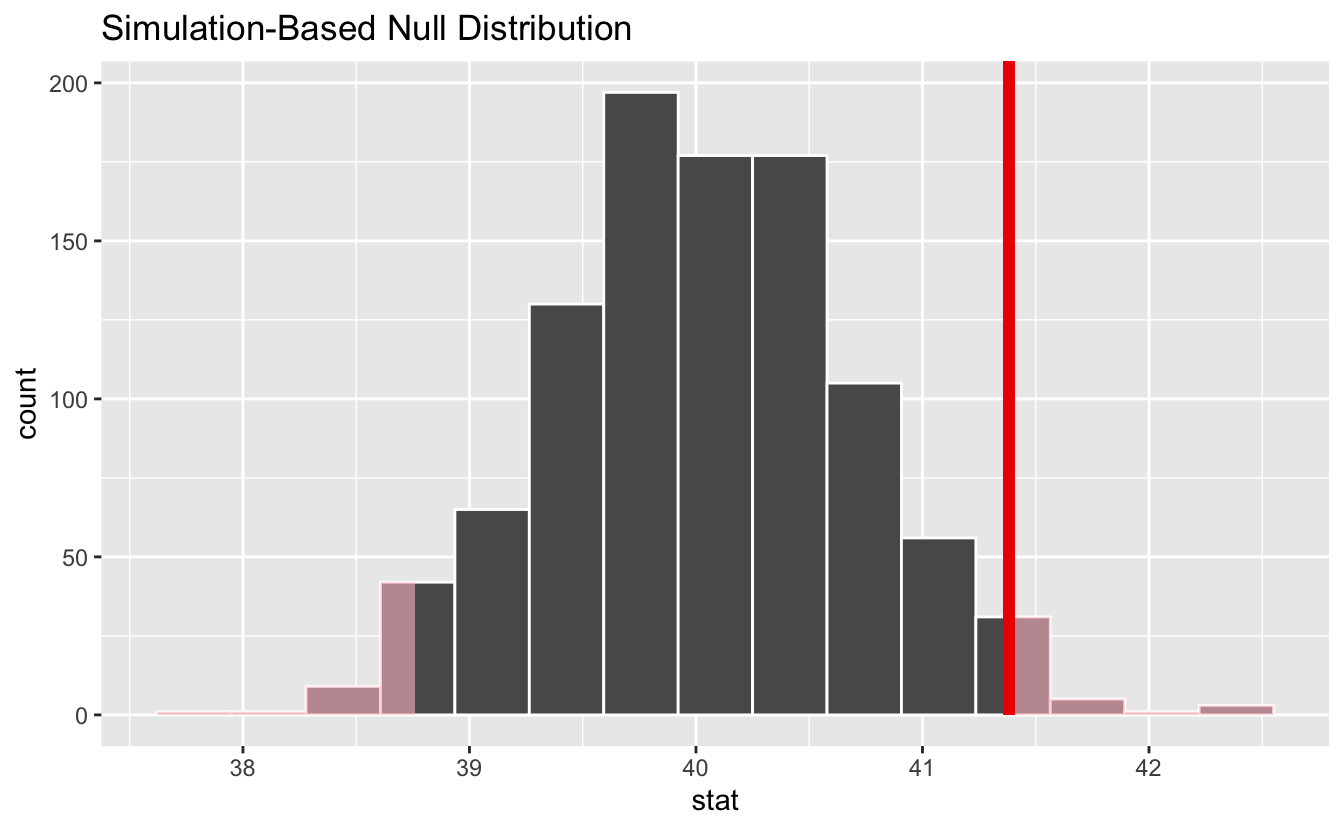
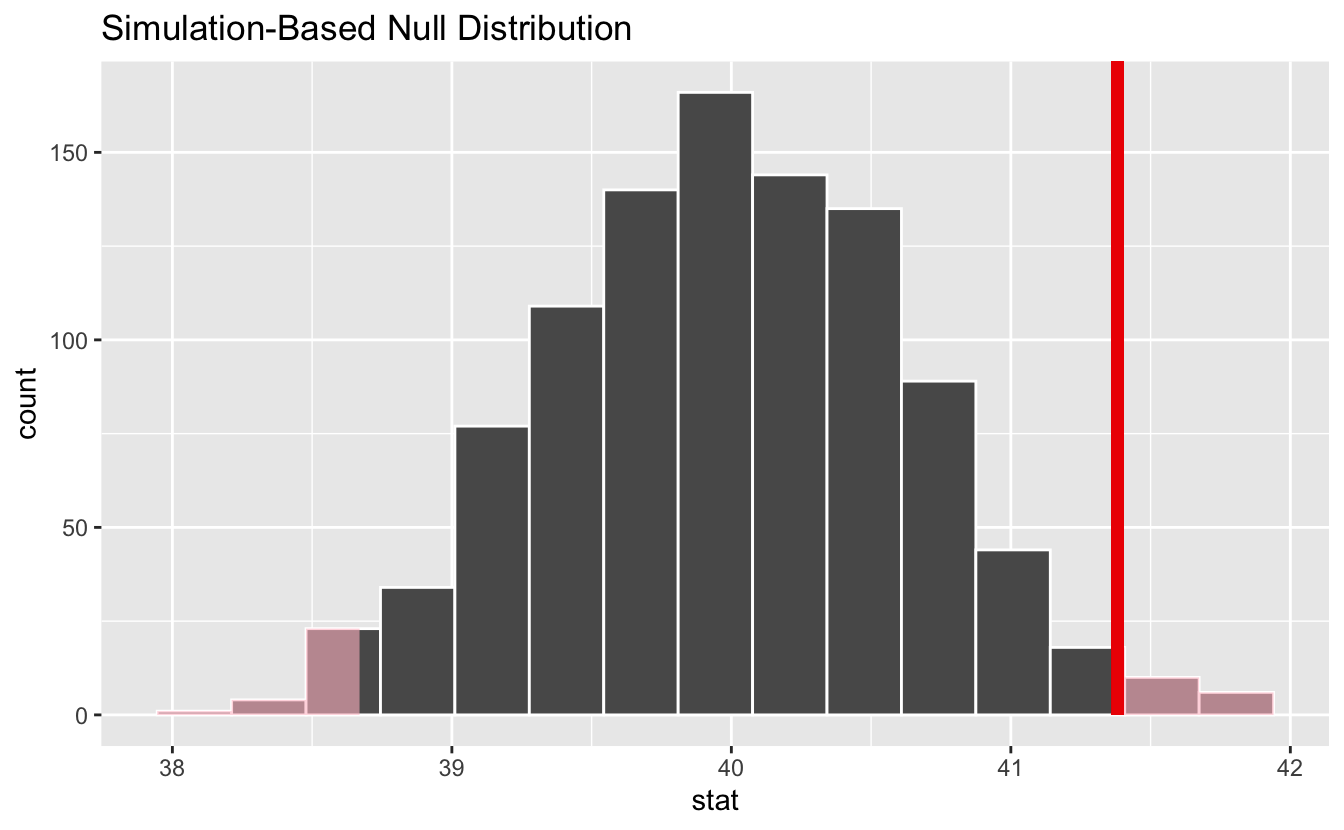
use consistent syntax, spellcheck, add context

diff --git a/content/blog/infer-1-0-0/index.md b/content/blog/infer-1-0-0/index.md
@@ -15,7 +15,7 @@ photo:
 
 categories: [package] 
 tags: [tidymodels]
-rmd_hash: 72296f4c0895a280
+rmd_hash: dbb82b02b1cc1daa
 
 ---
 
@@ -32,7 +32,7 @@ TODO:
 * [x] [`usethis::use_tidy_thanks()`](https://usethis.r-lib.org/reference/use_tidy_thanks.html)
 -->
 
-We're super excited announce the release of [infer](https://infer.tidymodels.org/) 1.0.0. infer is a package for statistical inference that implements an expressive statistical grammar that coheres with the tidyverse design framework. Rather than providing methods for specific statistical tests, this package consolidates the principles that are shared among common hypothesis tests into a set of four main verbs (functions), supplemented with many utilities to visualize and extract value from their outputs.
+We're super excited announce the release of [infer](https://infer.tidymodels.org/) 1.0.0! infer is a package for statistical inference that implements an expressive statistical grammar that coheres with the tidyverse design framework. Rather than providing methods for specific statistical tests, this package consolidates the principles that are shared among common hypothesis tests into a set of four main verbs (functions), supplemented with many utilities to visualize and extract value from their outputs.
 
 You can install it from CRAN with:
 
@@ -65,13 +65,13 @@ The workflow of this package is designed around this idea. Starting out with som
 
 As such, the ultimate output of an infer pipeline using these four functions is generally an *observed statistic* or *null distribution* of test statistics. These four functions are thus supplemented with many utilities to visualize and extract value from their outputs.
 
--   [`visualize()`](https://infer.tidymodels.org/reference/visualize.html) plots the *null distribution* of test statistics
+-   [`visualize()`](https://infer.tidymodels.org/reference/visualize.html) plots the null distribution of test statistics
     -   [`shade_p_value()`](https://infer.tidymodels.org/reference/shade_p_value.html) situates the observed statistic in the null distribution, shading the region as or more extreme
     -   [`shade_confidence_interval()`](https://infer.tidymodels.org/reference/shade_confidence_interval.html) situates the confidence interval region in the null distribution, shading the region with the bounds
 -   `get_p_value` calculates a p-value via the juxtaposition of the test statistic and null distribution
 -   `get_confidence_interval` calculates a confidence interval via the juxtaposition of the test statistic and null distribution
 
-Throughout this post, we make use of `gss`, a dataset supplied by `infer` containing a sample of 500 observations of 11 variables from the *General Social Survey*.
+To demonstrate, we'll walk through a typical infer pipeline step-by-step. Throughout this post, we make use of `gss`, a dataset supplied by infer containing a sample of 500 observations of 11 variables from the *General Social Survey*.
 
 <div class="highlight">
 
@@ -95,11 +95,11 @@ Throughout this post, we make use of `gss`, a dataset supplied by `infer` contai
 
 </div>
 
-Each row is an individual survey response, containing some basic demographic information on the respondent as well as some additional variables. See [`?gss`](https://infer.tidymodels.org/reference/gss.html) for more information on the variables included and their source. Note that this data (and our examples on it) are for demonstration purposes only, and will not necessarily provide accurate estimates unless weighted properly. For these examples, let's suppose that this dataset is a representative sample of a population we want to learn about: American adults.
+Each row is an individual survey response, containing some basic demographic information on the respondent as well as some additional variables. See [`?gss`](https://infer.tidymodels.org/reference/gss.html) for more information on the variables included and their source.
 
 ### specify(): Specifying Response (and Explanatory) Variables
 
-The `specify` function can be used to specify which of the variables in the dataset you're interested in. If you're only interested in, say, the `age` of the respondents, you might write:
+The [`specify()`](https://infer.tidymodels.org/reference/specify.html) function can be used to specify which of the variables in the dataset you're interested in. If you're only interested in, say, the `age` of the respondents, you might write:
 
 <div class="highlight">
 
@@ -123,7 +123,7 @@ The `specify` function can be used to specify which of the variables in the data
 
 </div>
 
-On the front-end, the output of `specify` just looks like it selects off the columns in the dataframe that you've specified. Checking the class of this object, though:
+On the front-end, the output of [`specify()`](https://infer.tidymodels.org/reference/specify.html) just looks like it selects off the columns in the dataframe that you've specified. Checking the class of this object, though:
 
 <div class="highlight">
 
@@ -136,7 +136,7 @@ On the front-end, the output of `specify` just looks like it selects off the col
 
 We can see that the `infer` class has been appended on top of the dataframe classes--this new class stores some extra metadata.
 
-If you're interested in two variables--`age` and `partyid`, for example--you can `specify` their relationship in one of two (equivalent) ways:
+If you're interested in two variables--`age` and `partyid`, for example--you can [`specify()`](https://infer.tidymodels.org/reference/specify.html) their relationship in one of two (equivalent) ways:
 
 <div class="highlight">
 
@@ -182,34 +182,9 @@ If you're interested in two variables--`age` and `partyid`, for example--you can
 
 </div>
 
-If you're doing inference on one proportion or a difference in proportions, you will need to use the `success` argument to specify which level of your `response` variable is a success. For instance, if you're interested in the proportion of the population with a college degree, you might use the following code:
-
-<div class="highlight">
-
-<pre class='chroma'><code class='language-r' data-lang='r'><span class='c'># specifying for inference on proportions</span>
-<span class='nv'>gss</span> <span class='o'>%&gt;%</span>
-  <span class='nf'><a href='https://infer.tidymodels.org/reference/specify.html'>specify</a></span><span class='o'>(</span>response <span class='o'>=</span> <span class='nv'>college</span>, success <span class='o'>=</span> <span class='s'>"degree"</span><span class='o'>)</span>
-<span class='c'>#&gt; Response: college (factor)</span>
-<span class='c'>#&gt; <span style='color: #555555;'># A tibble: 500 x 1</span></span>
-<span class='c'>#&gt;    college  </span>
-<span class='c'>#&gt;    <span style='color: #555555; font-style: italic;'>&lt;fct&gt;</span>    </span>
-<span class='c'>#&gt; <span style='color: #555555;'> 1</span> degree   </span>
-<span class='c'>#&gt; <span style='color: #555555;'> 2</span> no degree</span>
-<span class='c'>#&gt; <span style='color: #555555;'> 3</span> degree   </span>
-<span class='c'>#&gt; <span style='color: #555555;'> 4</span> no degree</span>
-<span class='c'>#&gt; <span style='color: #555555;'> 5</span> degree   </span>
-<span class='c'>#&gt; <span style='color: #555555;'> 6</span> no degree</span>
-<span class='c'>#&gt; <span style='color: #555555;'> 7</span> no degree</span>
-<span class='c'>#&gt; <span style='color: #555555;'> 8</span> degree   </span>
-<span class='c'>#&gt; <span style='color: #555555;'> 9</span> degree   </span>
-<span class='c'>#&gt; <span style='color: #555555;'>10</span> no degree</span>
-<span class='c'>#&gt; <span style='color: #555555;'># … with 490 more rows</span></span></code></pre>
-
-</div>
-
 ### hypothesize(): Declaring the Null Hypothesis
 
-The next step in the `infer` pipeline is often to declare a null hypothesis using [`hypothesize()`](https://infer.tidymodels.org/reference/hypothesize.html). The first step is to supply one of "independence" or "point" to the `null` argument. If your null hypothesis assumes independence between two variables, then this is all you need to supply to [`hypothesize()`](https://infer.tidymodels.org/reference/hypothesize.html):
+The next step in an infer pipeline is often to declare a null hypothesis using [`hypothesize()`](https://infer.tidymodels.org/reference/hypothesize.html). The first step is to supply one of "independence" or "point" to the `null` argument. If your null hypothesis assumes independence between two variables, then this is all you need to supply to [`hypothesize()`](https://infer.tidymodels.org/reference/hypothesize.html):
 
 <div class="highlight">
 
@@ -262,7 +237,7 @@ If you're doing inference on a point estimate, you will also need to provide one
 
 </div>
 
-Again, from the front-end, the dataframe outputted from [`hypothesize()`](https://infer.tidymodels.org/reference/hypothesize.html) looks almost exactly the same as it did when it came out of [`specify()`](https://infer.tidymodels.org/reference/specify.html), but `infer` now "knows" your null hypothesis.
+Again, from the front-end, the dataframe outputted from [`hypothesize()`](https://infer.tidymodels.org/reference/hypothesize.html) looks almost exactly the same as it did when it came out of [`specify()`](https://infer.tidymodels.org/reference/specify.html), but infer now "knows" your null hypothesis.
 
 ### generate(): Generating the Null Distribution
 
@@ -287,15 +262,15 @@ Continuing on with our example above, about the average number of hours worked a
 <span class='c'>#&gt;    replicate hours</span>
 <span class='c'>#&gt;        <span style='color: #555555; font-style: italic;'>&lt;int&gt;</span> <span style='color: #555555; font-style: italic;'>&lt;dbl&gt;</span></span>
 <span class='c'>#&gt; <span style='color: #555555;'> 1</span>         1  38.6</span>
-<span class='c'>#&gt; <span style='color: #555555;'> 2</span>         1  38.6</span>
-<span class='c'>#&gt; <span style='color: #555555;'> 3</span>         1  42.6</span>
-<span class='c'>#&gt; <span style='color: #555555;'> 4</span>         1  28.6</span>
-<span class='c'>#&gt; <span style='color: #555555;'> 5</span>         1  38.6</span>
+<span class='c'>#&gt; <span style='color: #555555;'> 2</span>         1  68.6</span>
+<span class='c'>#&gt; <span style='color: #555555;'> 3</span>         1  35.6</span>
+<span class='c'>#&gt; <span style='color: #555555;'> 4</span>         1  48.6</span>
+<span class='c'>#&gt; <span style='color: #555555;'> 5</span>         1  70.6</span>
 <span class='c'>#&gt; <span style='color: #555555;'> 6</span>         1  38.6</span>
-<span class='c'>#&gt; <span style='color: #555555;'> 7</span>         1  18.6</span>
-<span class='c'>#&gt; <span style='color: #555555;'> 8</span>         1  48.6</span>
-<span class='c'>#&gt; <span style='color: #555555;'> 9</span>         1  70.6</span>
-<span class='c'>#&gt; <span style='color: #555555;'>10</span>         1  14.6</span>
+<span class='c'>#&gt; <span style='color: #555555;'> 7</span>         1  21.6</span>
+<span class='c'>#&gt; <span style='color: #555555;'> 8</span>         1  16.6</span>
+<span class='c'>#&gt; <span style='color: #555555;'> 9</span>         1  38.6</span>
+<span class='c'>#&gt; <span style='color: #555555;'>10</span>         1  78.6</span>
 <span class='c'>#&gt; <span style='color: #555555;'># … with 499,990 more rows</span></span></code></pre>
 
 </div>
@@ -318,22 +293,22 @@ To generate a null distribution for the independence of two variables, we could 
 <span class='c'>#&gt;    partyid   age replicate</span>
 <span class='c'>#&gt;    <span style='color: #555555; font-style: italic;'>&lt;fct&gt;</span>   <span style='color: #555555; font-style: italic;'>&lt;dbl&gt;</span>     <span style='color: #555555; font-style: italic;'>&lt;int&gt;</span></span>
 <span class='c'>#&gt; <span style='color: #555555;'> 1</span> dem        36         1</span>
-<span class='c'>#&gt; <span style='color: #555555;'> 2</span> ind        34         1</span>
+<span class='c'>#&gt; <span style='color: #555555;'> 2</span> dem        34         1</span>
 <span class='c'>#&gt; <span style='color: #555555;'> 3</span> dem        24         1</span>
-<span class='c'>#&gt; <span style='color: #555555;'> 4</span> rep        42         1</span>
-<span class='c'>#&gt; <span style='color: #555555;'> 5</span> rep        31         1</span>
+<span class='c'>#&gt; <span style='color: #555555;'> 4</span> dem        42         1</span>
+<span class='c'>#&gt; <span style='color: #555555;'> 5</span> dem        31         1</span>
 <span class='c'>#&gt; <span style='color: #555555;'> 6</span> ind        32         1</span>
-<span class='c'>#&gt; <span style='color: #555555;'> 7</span> ind        48         1</span>
+<span class='c'>#&gt; <span style='color: #555555;'> 7</span> rep        48         1</span>
 <span class='c'>#&gt; <span style='color: #555555;'> 8</span> rep        36         1</span>
-<span class='c'>#&gt; <span style='color: #555555;'> 9</span> ind        30         1</span>
-<span class='c'>#&gt; <span style='color: #555555;'>10</span> ind        33         1</span>
+<span class='c'>#&gt; <span style='color: #555555;'> 9</span> rep        30         1</span>
+<span class='c'>#&gt; <span style='color: #555555;'>10</span> rep        33         1</span>
 <span class='c'>#&gt; <span style='color: #555555;'># … with 499,990 more rows</span></span></code></pre>
 
 </div>
 
 ### calculate(): Calculating Summary Statistics
 
-Depending on whether you're carrying out computation-based inference or theory-based inference, you will either supply [`calculate()`](https://infer.tidymodels.org/reference/calculate.html) with the output of [`generate()`](https://infer.tidymodels.org/reference/generate.html) or `hypothesize`, respectively. The function, for one, takes in a `stat` argument, which is currently one of "mean", "median", "sum", "sd", "prop", "count", "diff in means", "diff in medians", "diff in props", "Chisq", "F", "t", "z", "slope", or "correlation". For example, continuing our example above to calculate the null distribution of mean hours worked per week:
+Depending on whether you're carrying out computation-based inference or theory-based inference, you will either supply [`calculate()`](https://infer.tidymodels.org/reference/calculate.html) with the output of [`generate()`](https://infer.tidymodels.org/reference/generate.html) or [`hypothesize()`](https://infer.tidymodels.org/reference/hypothesize.html), respectively. The function, for one, takes in a `stat` argument, which is currently one of "mean", "median", "sum", "sd", "prop", "count", "diff in means", "diff in medians", "diff in props", "Chisq", "F", "t", "z", "slope", or "correlation". For example, continuing our example above to calculate the null distribution of mean hours worked per week:
 
 <div class="highlight">
 
@@ -345,16 +320,16 @@ Depending on whether you're carrying out computation-based inference or theory-b
 <span class='c'>#&gt; <span style='color: #555555;'># A tibble: 1,000 x 2</span></span>
 <span class='c'>#&gt;    replicate  stat</span>
 <span class='c'>#&gt;        <span style='color: #555555; font-style: italic;'>&lt;int&gt;</span> <span style='color: #555555; font-style: italic;'>&lt;dbl&gt;</span></span>
-<span class='c'>#&gt; <span style='color: #555555;'> 1</span>         1  40.1</span>
-<span class='c'>#&gt; <span style='color: #555555;'> 2</span>         2  38.4</span>
-<span class='c'>#&gt; <span style='color: #555555;'> 3</span>         3  39.7</span>
-<span class='c'>#&gt; <span style='color: #555555;'> 4</span>         4  38.8</span>
-<span class='c'>#&gt; <span style='color: #555555;'> 5</span>         5  40.2</span>
-<span class='c'>#&gt; <span style='color: #555555;'> 6</span>         6  39.2</span>
-<span class='c'>#&gt; <span style='color: #555555;'> 7</span>         7  39.4</span>
-<span class='c'>#&gt; <span style='color: #555555;'> 8</span>         8  40.8</span>
-<span class='c'>#&gt; <span style='color: #555555;'> 9</span>         9  39.8</span>
-<span class='c'>#&gt; <span style='color: #555555;'>10</span>        10  39.4</span>
+<span class='c'>#&gt; <span style='color: #555555;'> 1</span>         1  39.5</span>
+<span class='c'>#&gt; <span style='color: #555555;'> 2</span>         2  41.7</span>
+<span class='c'>#&gt; <span style='color: #555555;'> 3</span>         3  39.3</span>
+<span class='c'>#&gt; <span style='color: #555555;'> 4</span>         4  39.9</span>
+<span class='c'>#&gt; <span style='color: #555555;'> 5</span>         5  41.0</span>
+<span class='c'>#&gt; <span style='color: #555555;'> 6</span>         6  40.0</span>
+<span class='c'>#&gt; <span style='color: #555555;'> 7</span>         7  39.2</span>
+<span class='c'>#&gt; <span style='color: #555555;'> 8</span>         8  39.8</span>
+<span class='c'>#&gt; <span style='color: #555555;'> 9</span>         9  40.5</span>
+<span class='c'>#&gt; <span style='color: #555555;'>10</span>        10  40.4</span>
 <span class='c'>#&gt; <span style='color: #555555;'># … with 990 more rows</span></span></code></pre>
 
 </div>
@@ -371,23 +346,23 @@ The output of [`calculate()`](https://infer.tidymodels.org/reference/calculate.h
 <span class='c'>#&gt; <span style='color: #555555;'># A tibble: 1,000 x 2</span></span>
 <span class='c'>#&gt;    replicate    stat</span>
 <span class='c'>#&gt;        <span style='color: #555555; font-style: italic;'>&lt;int&gt;</span>   <span style='color: #555555; font-style: italic;'>&lt;dbl&gt;</span></span>
-<span class='c'>#&gt; <span style='color: #555555;'> 1</span>         1 -<span style='color: #BB0000;'>0.470</span> </span>
-<span class='c'>#&gt; <span style='color: #555555;'> 2</span>         2  1.63  </span>
-<span class='c'>#&gt; <span style='color: #555555;'> 3</span>         3 -<span style='color: #BB0000;'>1.01</span>  </span>
-<span class='c'>#&gt; <span style='color: #555555;'> 4</span>         4  1.26  </span>
-<span class='c'>#&gt; <span style='color: #555555;'> 5</span>         5  0.297 </span>
-<span class='c'>#&gt; <span style='color: #555555;'> 6</span>         6 -<span style='color: #BB0000;'>0.822</span> </span>
-<span class='c'>#&gt; <span style='color: #555555;'> 7</span>         7 -<span style='color: #BB0000;'>0.390</span> </span>
-<span class='c'>#&gt; <span style='color: #555555;'> 8</span>         8 -<span style='color: #BB0000;'>0.884</span> </span>
-<span class='c'>#&gt; <span style='color: #555555;'> 9</span>         9 -<span style='color: #BB0000;'>0.434</span> </span>
-<span class='c'>#&gt; <span style='color: #555555;'>10</span>        10 -<span style='color: #BB0000;'>0.046</span><span style='color: #BB0000; text-decoration: underline;'>6</span></span>
+<span class='c'>#&gt; <span style='color: #555555;'> 1</span>         1  0.023<span style='text-decoration: underline;'>9</span></span>
+<span class='c'>#&gt; <span style='color: #555555;'> 2</span>         2 -<span style='color: #BB0000;'>1.05</span>  </span>
+<span class='c'>#&gt; <span style='color: #555555;'> 3</span>         3 -<span style='color: #BB0000;'>1.25</span>  </span>
+<span class='c'>#&gt; <span style='color: #555555;'> 4</span>         4  0.632 </span>
+<span class='c'>#&gt; <span style='color: #555555;'> 5</span>         5  0.421 </span>
+<span class='c'>#&gt; <span style='color: #555555;'> 6</span>         6  2.96  </span>
+<span class='c'>#&gt; <span style='color: #555555;'> 7</span>         7 -<span style='color: #BB0000;'>1.14</span>  </span>
+<span class='c'>#&gt; <span style='color: #555555;'> 8</span>         8 -<span style='color: #BB0000;'>0.999</span> </span>
+<span class='c'>#&gt; <span style='color: #555555;'> 9</span>         9 -<span style='color: #BB0000;'>0.620</span> </span>
+<span class='c'>#&gt; <span style='color: #555555;'>10</span>        10 -<span style='color: #BB0000;'>1.65</span>  </span>
 <span class='c'>#&gt; <span style='color: #555555;'># … with 990 more rows</span></span></code></pre>
 
 </div>
 
 ### Other Utilities
 
-`infer` also offers several utilities to extract the meaning out of summary statistics and null distributions---the package provides functions to visualize where a statistic is relative to a distribution (with [`visualize()`](https://infer.tidymodels.org/reference/visualize.html)), calculate p-values (with [`get_p_value()`](https://infer.tidymodels.org/reference/get_p_value.html)), and calculate confidence intervals (with [`get_confidence_interval()`](https://infer.tidymodels.org/reference/get_confidence_interval.html)).
+infer also offers several utilities to extract the meaning out of summary statistics and null distributions---the package provides functions to visualize where a statistic is relative to a distribution (with [`visualize()`](https://infer.tidymodels.org/reference/visualize.html)), calculate p-values (with [`get_p_value()`](https://infer.tidymodels.org/reference/get_p_value.html)), and calculate confidence intervals (with [`get_confidence_interval()`](https://infer.tidymodels.org/reference/get_confidence_interval.html)).
 
 To illustrate, we'll go back to the example of determining whether the mean number of hours worked per week is 40 hours.
 
@@ -432,7 +407,7 @@ Where does our sample's observed statistic lie on this distribution? We can use 
 
 </div>
 
-Notice that `infer` has also shaded the regions of the null distribution that are as (or more) extreme than our observed statistic. (Also, note that we now use the [`+`](https://rdrr.io/r/base/Arithmetic.html) operator to apply the `shade_p_value` function. This is because `visualize` outputs a plot object from `ggplot2` instead of a data frame, and the [`+`](https://rdrr.io/r/base/Arithmetic.html) operator is needed to add the p-value layer to the plot object.) The red bar looks like it's slightly far out on the right tail of the null distribution, so observing a sample mean of 41.382 hours would be somewhat unlikely if the mean was actually 40 hours. How unlikely, though?
+Notice that infer has also shaded the regions of the null distribution that are as (or more) extreme than our observed statistic. The red bar looks like it's slightly far out on the right tail of the null distribution, so observing a sample mean of 41.382 hours would be somewhat unlikely if the mean was actually 40 hours. How unlikely, though?
 
 <div class="highlight">
 
@@ -444,11 +419,11 @@ Notice that `infer` has also shaded the regions of the null distribution that ar
 <span class='c'>#&gt; <span style='color: #555555;'># A tibble: 1 x 1</span></span>
 <span class='c'>#&gt;   p_value</span>
 <span class='c'>#&gt;     <span style='color: #555555; font-style: italic;'>&lt;dbl&gt;</span></span>
-<span class='c'>#&gt; <span style='color: #555555;'>1</span>   0.042</span></code></pre>
+<span class='c'>#&gt; <span style='color: #555555;'>1</span>   0.034</span></code></pre>
 
 </div>
 
-It looks like the p-value is 0.042, which is pretty small---if the true mean number of hours worked per week was actually 40, the probability of our sample mean being this far (1.382 hours) from 40 would be 0.042. This may or may not be statistically significantly different, depending on the significance level $\alpha$ you decided on *before* you ran this analysis. If you had set $\alpha = .05$, then this difference would be statistically significant, but if you had set $\alpha = .01$, then it would not be.
+It looks like the p-value is 0.034, which is pretty small---if the true mean number of hours worked per week was actually 40, the probability of our sample mean being this far (1.382 hours) from 40 would be 0.034. This may or may not be statistically significantly different, depending on the significance level $\alpha$ you decided on *before* you ran this analysis. If you had set $\alpha = .05$, then this difference would be statistically significant, but if you had set $\alpha = .01$, then it would not be.
 
 To get a confidence interval around our estimate, we can write:
 
@@ -465,13 +440,19 @@ To get a confidence interval around our estimate, we can write:
 <span class='c'>#&gt; <span style='color: #555555;'># A tibble: 1 x 2</span></span>
 <span class='c'>#&gt;   lower_ci upper_ci</span>
 <span class='c'>#&gt;      <span style='color: #555555; font-style: italic;'>&lt;dbl&gt;</span>    <span style='color: #555555; font-style: italic;'>&lt;dbl&gt;</span></span>
-<span class='c'>#&gt; <span style='color: #555555;'>1</span>     40.1     42.7</span></code></pre>
+<span class='c'>#&gt; <span style='color: #555555;'>1</span>     40.1     42.6</span></code></pre>
 
 </div>
 
 As you can see, 40 hours per week is not contained in this interval, which aligns with our previous conclusion that this finding is significant at the confidence level $\alpha = .05$.
 
 ## What's New?
+
+There are a number of improvements and new features in this release that resolve longstanding gaps in the package's functionality. We'll highlight three:
+
+-   Support for multiple regression
+-   Alignment of theory-based methods
+-   Behavioral consistency of [`calculate()`](https://infer.tidymodels.org/reference/calculate.html)
 
 ### Support for multiple regression
 
@@ -508,16 +489,16 @@ If passed a [`generate()`](https://infer.tidymodels.org/reference/generate.html)
 <span class='c'>#&gt; <span style='color: #555555;'># Groups:   replicate [100]</span></span>
 <span class='c'>#&gt;    replicate term          estimate</span>
 <span class='c'>#&gt;        <span style='color: #555555; font-style: italic;'>&lt;int&gt;</span> <span style='color: #555555; font-style: italic;'>&lt;chr&gt;</span>            <span style='color: #555555; font-style: italic;'>&lt;dbl&gt;</span></span>
-<span class='c'>#&gt; <span style='color: #555555;'> 1</span>         1 intercept      38.2   </span>
-<span class='c'>#&gt; <span style='color: #555555;'> 2</span>         1 age             0.075<span style='text-decoration: underline;'>9</span></span>
-<span class='c'>#&gt; <span style='color: #555555;'> 3</span>         1 collegedegree   0.374 </span>
-<span class='c'>#&gt; <span style='color: #555555;'> 4</span>         2 intercept      42.7   </span>
-<span class='c'>#&gt; <span style='color: #555555;'> 5</span>         2 age            -<span style='color: #BB0000;'>0.047</span><span style='color: #BB0000; text-decoration: underline;'>9</span></span>
-<span class='c'>#&gt; <span style='color: #555555;'> 6</span>         2 collegedegree   1.76  </span>
-<span class='c'>#&gt; <span style='color: #555555;'> 7</span>         3 intercept      40.7   </span>
-<span class='c'>#&gt; <span style='color: #555555;'> 8</span>         3 age             0.026<span style='text-decoration: underline;'>3</span></span>
-<span class='c'>#&gt; <span style='color: #555555;'> 9</span>         3 collegedegree  -<span style='color: #BB0000;'>1.12</span>  </span>
-<span class='c'>#&gt; <span style='color: #555555;'>10</span>         4 intercept      43.0   </span>
+<span class='c'>#&gt; <span style='color: #555555;'> 1</span>         1 intercept      42.3   </span>
+<span class='c'>#&gt; <span style='color: #555555;'> 2</span>         1 age            -<span style='color: #BB0000;'>0.029</span><span style='color: #BB0000; text-decoration: underline;'>7</span></span>
+<span class='c'>#&gt; <span style='color: #555555;'> 3</span>         1 collegedegree   0.782 </span>
+<span class='c'>#&gt; <span style='color: #555555;'> 4</span>         2 intercept      43.4   </span>
+<span class='c'>#&gt; <span style='color: #555555;'> 5</span>         2 age            -<span style='color: #BB0000;'>0.047</span><span style='color: #BB0000; text-decoration: underline;'>3</span></span>
+<span class='c'>#&gt; <span style='color: #555555;'> 6</span>         2 collegedegree  -<span style='color: #BB0000;'>0.286</span> </span>
+<span class='c'>#&gt; <span style='color: #555555;'> 7</span>         3 intercept      39.9   </span>
+<span class='c'>#&gt; <span style='color: #555555;'> 8</span>         3 age             0.036<span style='text-decoration: underline;'>6</span></span>
+<span class='c'>#&gt; <span style='color: #555555;'> 9</span>         3 collegedegree  -<span style='color: #BB0000;'>0.056</span><span style='color: #BB0000; text-decoration: underline;'>2</span></span>
+<span class='c'>#&gt; <span style='color: #555555;'>10</span>         4 intercept      42.7   </span>
 <span class='c'>#&gt; <span style='color: #555555;'># … with 290 more rows</span></span></code></pre>
 
 </div>
@@ -535,16 +516,16 @@ If `type = "permute"`, a set of unquoted column names in the data to permute (in
 <span class='c'>#&gt; <span style='color: #555555;'># Groups:   replicate [100]</span></span>
 <span class='c'>#&gt;    replicate term          estimate</span>
 <span class='c'>#&gt;        <span style='color: #555555; font-style: italic;'>&lt;int&gt;</span> <span style='color: #555555; font-style: italic;'>&lt;chr&gt;</span>            <span style='color: #555555; font-style: italic;'>&lt;dbl&gt;</span></span>
-<span class='c'>#&gt; <span style='color: #555555;'> 1</span>         1 intercept      38.0   </span>
-<span class='c'>#&gt; <span style='color: #555555;'> 2</span>         1 age             0.045<span style='text-decoration: underline;'>2</span></span>
-<span class='c'>#&gt; <span style='color: #555555;'> 3</span>         1 collegedegree   4.34  </span>
-<span class='c'>#&gt; <span style='color: #555555;'> 4</span>         2 intercept      38.6   </span>
-<span class='c'>#&gt; <span style='color: #555555;'> 5</span>         2 age             0.054<span style='text-decoration: underline;'>6</span></span>
-<span class='c'>#&gt; <span style='color: #555555;'> 6</span>         2 collegedegree   1.65  </span>
-<span class='c'>#&gt; <span style='color: #555555;'> 7</span>         3 intercept      42.8   </span>
-<span class='c'>#&gt; <span style='color: #555555;'> 8</span>         3 age            -<span style='color: #BB0000;'>0.055</span><span style='color: #BB0000; text-decoration: underline;'>2</span></span>
-<span class='c'>#&gt; <span style='color: #555555;'> 9</span>         3 collegedegree   2.40  </span>
-<span class='c'>#&gt; <span style='color: #555555;'>10</span>         4 intercept      44.6   </span>
+<span class='c'>#&gt; <span style='color: #555555;'> 1</span>         1 intercept      41.4   </span>
+<span class='c'>#&gt; <span style='color: #555555;'> 2</span>         1 age             0.015<span style='text-decoration: underline;'>6</span></span>
+<span class='c'>#&gt; <span style='color: #555555;'> 3</span>         1 collegedegree  -<span style='color: #BB0000;'>1.99</span>  </span>
+<span class='c'>#&gt; <span style='color: #555555;'> 4</span>         2 intercept      39.3   </span>
+<span class='c'>#&gt; <span style='color: #555555;'> 5</span>         2 age             0.052<span style='text-decoration: underline;'>4</span></span>
+<span class='c'>#&gt; <span style='color: #555555;'> 6</span>         2 collegedegree  -<span style='color: #BB0000;'>0.087</span><span style='color: #BB0000; text-decoration: underline;'>4</span></span>
+<span class='c'>#&gt; <span style='color: #555555;'> 7</span>         3 intercept      44.8   </span>
+<span class='c'>#&gt; <span style='color: #555555;'> 8</span>         3 age            -<span style='color: #BB0000;'>0.081</span><span style='color: #BB0000; text-decoration: underline;'>2</span></span>
+<span class='c'>#&gt; <span style='color: #555555;'> 9</span>         3 collegedegree  -<span style='color: #BB0000;'>0.489</span> </span>
+<span class='c'>#&gt; <span style='color: #555555;'>10</span>         4 intercept      41.5   </span>
 <span class='c'>#&gt; <span style='color: #555555;'># … with 290 more rows</span></span></code></pre>
 
 </div>
@@ -552,6 +533,12 @@ If `type = "permute"`, a set of unquoted column names in the data to permute (in
 This feature allows for more detailed exploration of the effect of disrupting the correlation structure among explanatory variables on outputted model coefficients.
 
 Each of the auxillary functions [`get_p_value()`](https://infer.tidymodels.org/reference/get_p_value.html), [`get_confidence_interval()`](https://infer.tidymodels.org/reference/get_confidence_interval.html), [`visualize()`](https://infer.tidymodels.org/reference/visualize.html), [`shade_p_value()`](https://infer.tidymodels.org/reference/shade_p_value.html), and [`shade_confidence_interval()`](https://infer.tidymodels.org/reference/shade_confidence_interval.html) have methods to handle [`fit()`](https://generics.r-lib.org/reference/fit.html) output! See their help-files for example usage.
+
+### Alignment of theory-based methods
+
+While infer is primarily a package for randomization-based statistical inference, the package has partially supported theory-based methods in a number of ways over the years. This release introduces a principled, opinionated, and consistent interface for theory-based methods for statistical inference.
+
+\[more here :-)\]
 
 ### Behavioral consistency
 
@@ -679,5 +666,5 @@ We don't anticipate that any of these changes are "breaking" in the sense that c
 
 ## Acknowledgements
 
-This release was made possible with financial support from RStudio and the Reed College Mathematics Department. Thanks to [@aarora79](https://github.com/aarora79), [@acpguedes](https://github.com/acpguedes), [@AlbertRapp](https://github.com/AlbertRapp), [@alexpghayes](https://github.com/alexpghayes), [@aloy](https://github.com/aloy), [@AmeliaMN](https://github.com/AmeliaMN), [@andrewpbray](https://github.com/andrewpbray), [@apreshill](https://github.com/apreshill), [@atheobold](https://github.com/atheobold), [@beanumber](https://github.com/beanumber), [@bigdataman2015](https://github.com/bigdataman2015), [@bragks](https://github.com/bragks), [@brendanhcullen](https://github.com/brendanhcullen), [@CarlssonLeo](https://github.com/CarlssonLeo), [@ChalkboardSonata](https://github.com/ChalkboardSonata), [@chriscardillo](https://github.com/chriscardillo), [@clauswilke](https://github.com/clauswilke), [@congdanh8391](https://github.com/congdanh8391), [@corinne-riddell](https://github.com/corinne-riddell), [@cristianvaldez](https://github.com/cristianvaldez), [@daranzolin](https://github.com/daranzolin), [@davidbaniadam](https://github.com/davidbaniadam), [@davidhodge931](https://github.com/davidhodge931), [@doug-friedman](https://github.com/doug-friedman), [@dshelldhillon](https://github.com/dshelldhillon), [@dsolito](https://github.com/dsolito), [@echasnovski](https://github.com/echasnovski), [@EllaKaye](https://github.com/EllaKaye), [@enricochavez](https://github.com/enricochavez), [@gdbassett](https://github.com/gdbassett), [@ghost](https://github.com/ghost), [@GitHunter0](https://github.com/GitHunter0), [@hardin47](https://github.com/hardin47), [@hfrick](https://github.com/hfrick), [@higgi13425](https://github.com/higgi13425), [@instantkaffee](https://github.com/instantkaffee), [@ismayc](https://github.com/ismayc), [@jbourak](https://github.com/jbourak), [@jcvall](https://github.com/jcvall), [@jimrothstein](https://github.com/jimrothstein), [@kennethban](https://github.com/kennethban), [@m-berkes](https://github.com/m-berkes), [@mikelove](https://github.com/mikelove), [@mine-cetinkaya-rundel](https://github.com/mine-cetinkaya-rundel), [@Minhasshazu](https://github.com/Minhasshazu), [@msberends](https://github.com/msberends), [@mt-edwards](https://github.com/mt-edwards), [@muschellij2](https://github.com/muschellij2), [@nfultz](https://github.com/nfultz), [@nicholasjhorton](https://github.com/nicholasjhorton), [@PirateGrunt](https://github.com/PirateGrunt), [@PsychlytxTD](https://github.com/PsychlytxTD), [@richierocks](https://github.com/richierocks), [@romainfrancois](https://github.com/romainfrancois), [@rpruim](https://github.com/rpruim), [@rudeboybert](https://github.com/rudeboybert), [@rundel](https://github.com/rundel), [@sastoudt](https://github.com/sastoudt), [@sbibauw](https://github.com/sbibauw), [@sckott](https://github.com/sckott), [@simonpcouch](https://github.com/simonpcouch), [@THargreaves](https://github.com/THargreaves), [@topepo](https://github.com/topepo), [@torockel](https://github.com/torockel), [@ttimbers](https://github.com/ttimbers), [@vikram-rawat](https://github.com/vikram-rawat), [@vladimirvrabely](https://github.com/vladimirvrabely), and [@xiaochi-liu](https://github.com/xiaochi-liu) for their contributions to the package.
+This release was made possible with financial support from RStudio and the Reed College Mathematics Department. Thanks to [@aarora79](https://github.com/aarora79), [@acpguedes](https://github.com/acpguedes), [@AlbertRapp](https://github.com/AlbertRapp), [@alexpghayes](https://github.com/alexpghayes), [@aloy](https://github.com/aloy), [@AmeliaMN](https://github.com/AmeliaMN), [@andrewpbray](https://github.com/andrewpbray), [@apreshill](https://github.com/apreshill), [@atheobold](https://github.com/atheobold), [@beanumber](https://github.com/beanumber), [@bigdataman2015](https://github.com/bigdataman2015), [@bragks](https://github.com/bragks), [@brendanhcullen](https://github.com/brendanhcullen), [@CarlssonLeo](https://github.com/CarlssonLeo), [@ChalkboardSonata](https://github.com/ChalkboardSonata), [@chriscardillo](https://github.com/chriscardillo), [@clauswilke](https://github.com/clauswilke), [@congdanh8391](https://github.com/congdanh8391), [@corinne-riddell](https://github.com/corinne-riddell), [@cristianvaldez](https://github.com/cristianvaldez), [@daranzolin](https://github.com/daranzolin), [@davidbaniadam](https://github.com/davidbaniadam), [@davidhodge931](https://github.com/davidhodge931), [@doug-friedman](https://github.com/doug-friedman), [@dshelldhillon](https://github.com/dshelldhillon), [@dsolito](https://github.com/dsolito), [@echasnovski](https://github.com/echasnovski), [@EllaKaye](https://github.com/EllaKaye), [@enricochavez](https://github.com/enricochavez), [@gdbassett](https://github.com/gdbassett), [@ghost](https://github.com/ghost), [@GitHunter0](https://github.com/GitHunter0), [@hardin47](https://github.com/hardin47), [@hfrick](https://github.com/hfrick), [@higgi13425](https://github.com/higgi13425), [@instantkaffee](https://github.com/instantkaffee), [@ismayc](https://github.com/ismayc), [@jbourak](https://github.com/jbourak), [@jcvall](https://github.com/jcvall), [@jimrothstein](https://github.com/jimrothstein), [@kennethban](https://github.com/kennethban), [@m-berkes](https://github.com/m-berkes), [@mikelove](https://github.com/mikelove), [@mine-cetinkaya-rundel](https://github.com/mine-cetinkaya-rundel), [@Minhasshazu](https://github.com/Minhasshazu), [@msberends](https://github.com/msberends), [@mt-edwards](https://github.com/mt-edwards), [@muschellij2](https://github.com/muschellij2), [@nfultz](https://github.com/nfultz), [@nicholasjhorton](https://github.com/nicholasjhorton), [@PirateGrunt](https://github.com/PirateGrunt), [@PsychlytxTD](https://github.com/PsychlytxTD), [@richierocks](https://github.com/richierocks), [@romainfrancois](https://github.com/romainfrancois), [@rpruim](https://github.com/rpruim), [@rudeboybert](https://github.com/rudeboybert), [@rundel](https://github.com/rundel), [@sastoudt](https://github.com/sastoudt), [@sbibauw](https://github.com/sbibauw), [@sckott](https://github.com/sckott), [@THargreaves](https://github.com/THargreaves), [@topepo](https://github.com/topepo), [@torockel](https://github.com/torockel), [@ttimbers](https://github.com/ttimbers), [@vikram-rawat](https://github.com/vikram-rawat), [@vladimirvrabely](https://github.com/vladimirvrabely), and [@xiaochi-liu](https://github.com/xiaochi-liu) for their contributions to the package.
 
